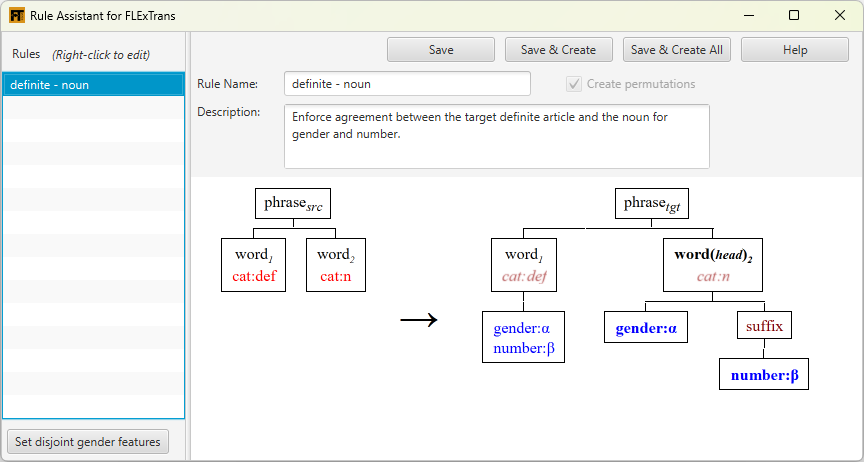
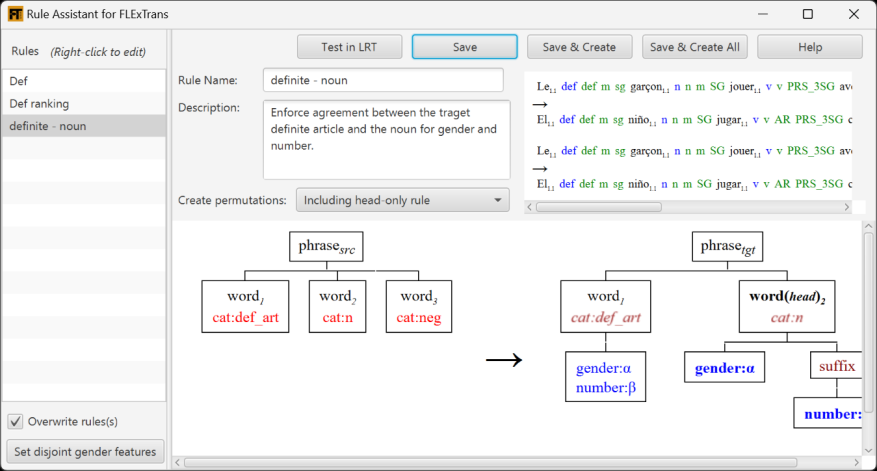
dtd update and image update
dtd for Rule Assistant xml file

Changed region(s): [[0.0, 0.0, 1.0, 1.0]]

diff --git a/Doc/UserDoc.htm b/Doc/UserDoc.htm
@@ -10,7 +10,7 @@
    <body>
       <center><b><big><big><big><span style="font-family:Courier New; font-weight:bold; color:navy; ">FLExTrans</span> User Documentation</big></big></big></b></center>
       <center><i></i></center>
-      <center><i>flextrans_help@sil.org</i></center><br><center><small>28 October 2024</small></center>
+      <center><i>flextrans_help@sil.org</i></center><br><center><small>31 October 2024</small></center>
       <center><small>Version: 3.11.1</small></center>
       <hr>
       <div>
@@ -952,7 +952,7 @@
       <p>You can&#8217;t edit the transfer rules in the <span style="font-family:Courier New; font-weight:bold; color:navy; ">Live Rule Tester Tool</span> and even when you change the order of the rules in the tool that doesn&#8217;t change your transfer rules file. Make your changes
          in the <span style="font-family:Courier New; font-weight:bold; color:navy; ">XMLmind XML Editor</span>. You can launch the editor by clicking on the <span style="font-style:normal; font-weight:bold; ">Edit Transfer Rules</span> button. To reload the transfer rules after you have changed them, click on the <span style="font-style:normal; font-weight:bold; ">Refresh Rules</span> button.
       </p>
-      <p>The <span style="font-style:normal; font-weight:bold; ">View Bilingual Lexicon</span> will start the <span style="font-family:Courier New; font-weight:bold; color:navy; ">XMLmind XML Editor</span> for viewing the bilingual lexicon. The <span style="font-style:normal; font-weight:bold; ">Edit Replacement Dictionary</span>  button will start the <span style="font-family:Courier New; font-weight:bold; color:navy; ">Replacement Dictionary Editor</span>.
+      <p>The <span style="font-style:normal; font-weight:bold; ">View Bilingual Lexicon</span> will start the <span style="font-family:Courier New; font-weight:bold; color:navy; ">XMLmind XML Editor</span> for viewing the bilingual lexicon. The <span style="font-style:normal; font-weight:bold; ">Edit Replacement Dictionary</span> button will start the <span style="font-family:Courier New; font-weight:bold; color:navy; ">Replacement Dictionary Editor</span>.
       </p>
       <p>If you change the target lexicon, click the <span style="font-style:normal; font-weight:bold; ">Refresh Target Lexicon</span> button to reload it so that upon synthesis, <span style="font-family:Courier New; font-weight:bold; color:navy; ">FLExTrans</span> uses the changed target lexicon.
       </p>

diff --git a/XXEaddon/FLExTransRuleGeneratorXMLmind/css/FLExTransRuleGenerator.css b/XXEaddon/FLExTransRuleGeneratorXMLmind/css/FLExTransRuleGenerator.css
@@ -62,6 +62,20 @@ DisjointFeatureValuePairing
     margin-left:.1in;
 }
 
+FLExTransRuleGenerator:before 
+{
+    content: "Overwrite Rules? " combo-box(attribute, overwrite_rules, 
+                           color, #ce901b,
+                           labels, "yes\A no", 
+                           values, "yes\A no");
+    color:Black;
+}
+FLExTransRuleGenerator
+{
+    display:block;
+    margin-left:0.0in;
+}
+
 FLExTransRules:before
 {
     content: "FLExTrans Rules: ";
@@ -77,8 +91,8 @@ FLExTransRule:before
     content: " FLExTrans Rule: "text-field(attribute,name,background-color,name-color(),columns,30)
     " create permutations? " combo-box(attribute, create_permutations, 
                            color, #ce901b,
-                           labels, "yes\A no", 
-                           values, "yes\A no");
+                           labels, "with head\Awithout head\A no", 
+                           values, "with_head\Anot_head\A no");
     color:Black;
 }
 FLExTransRule
